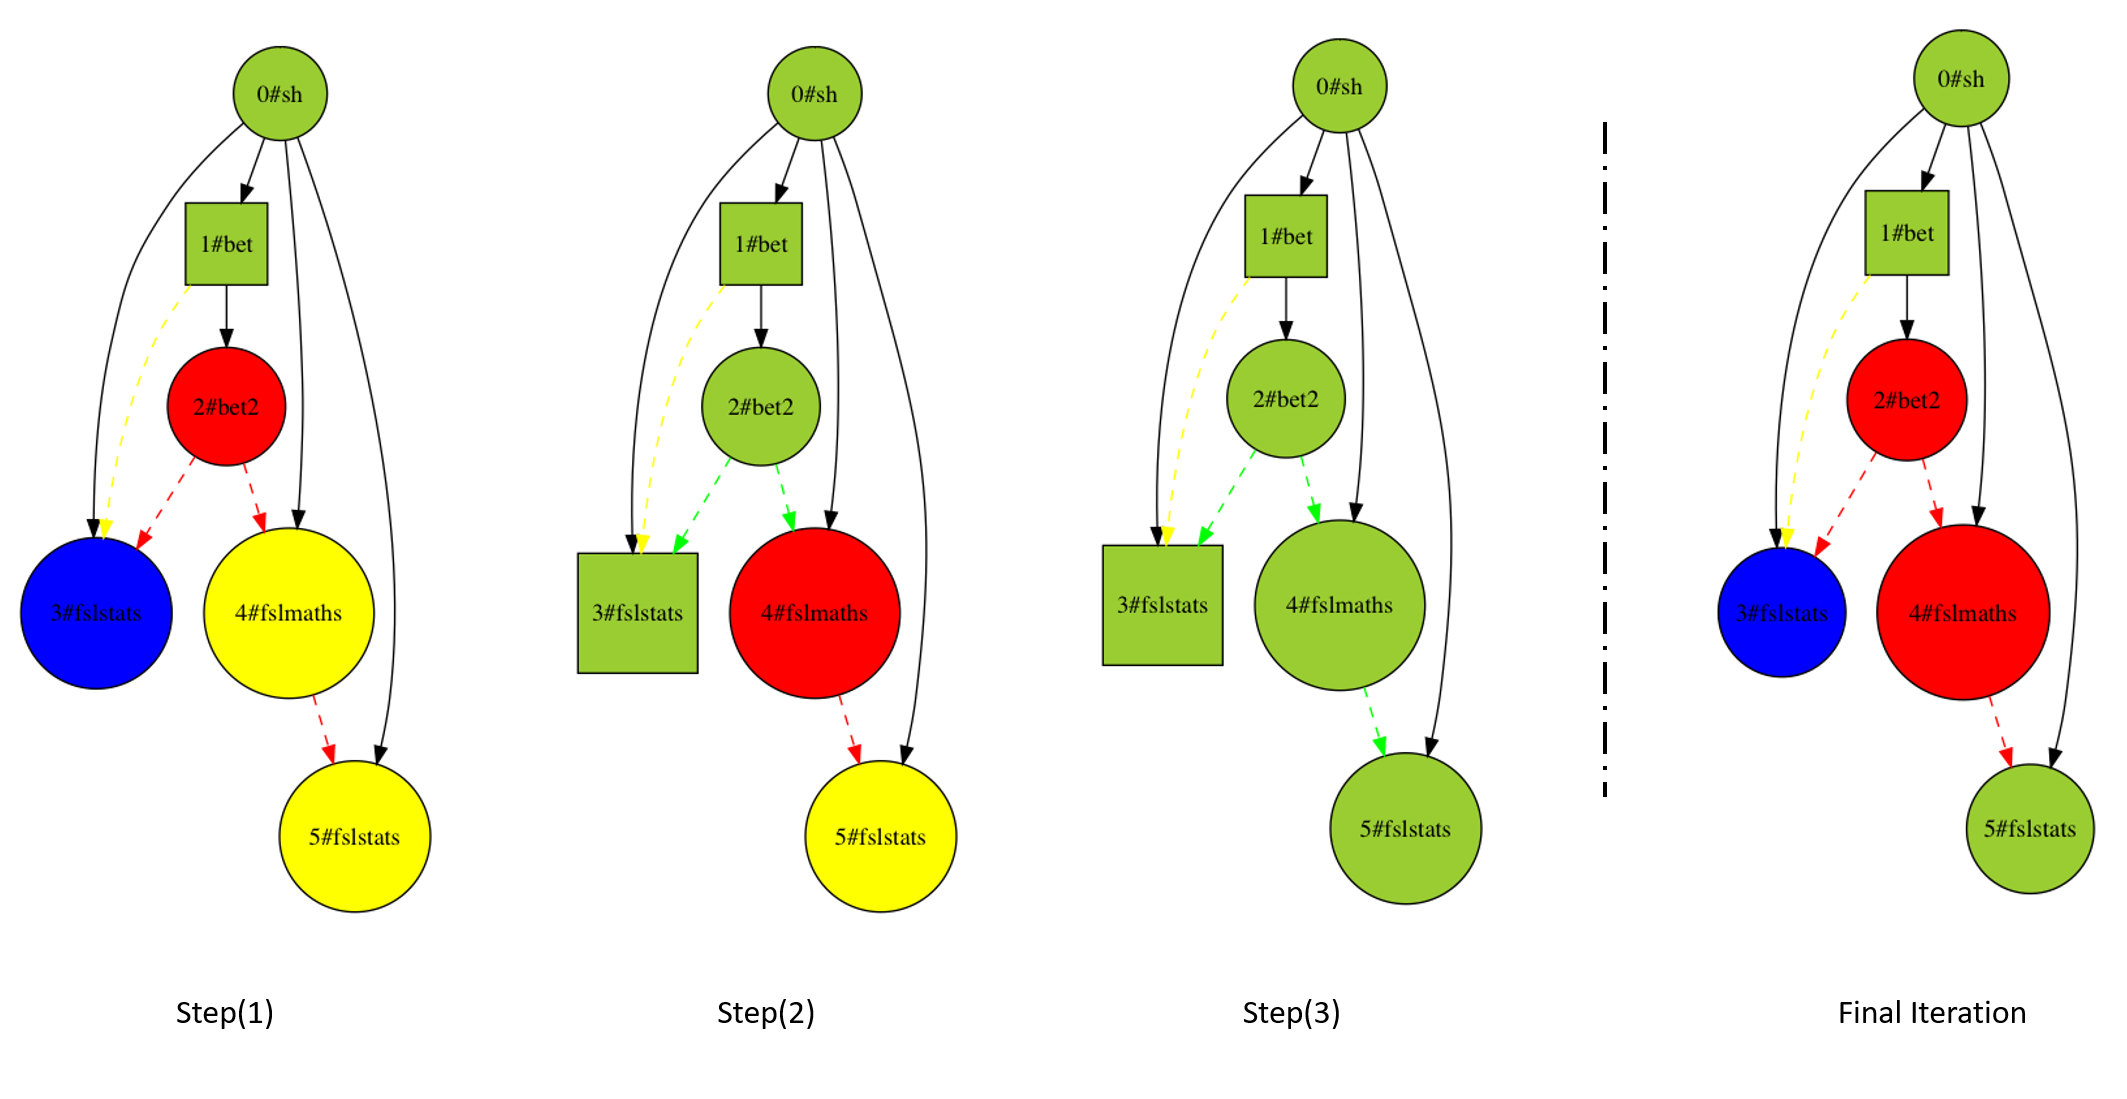
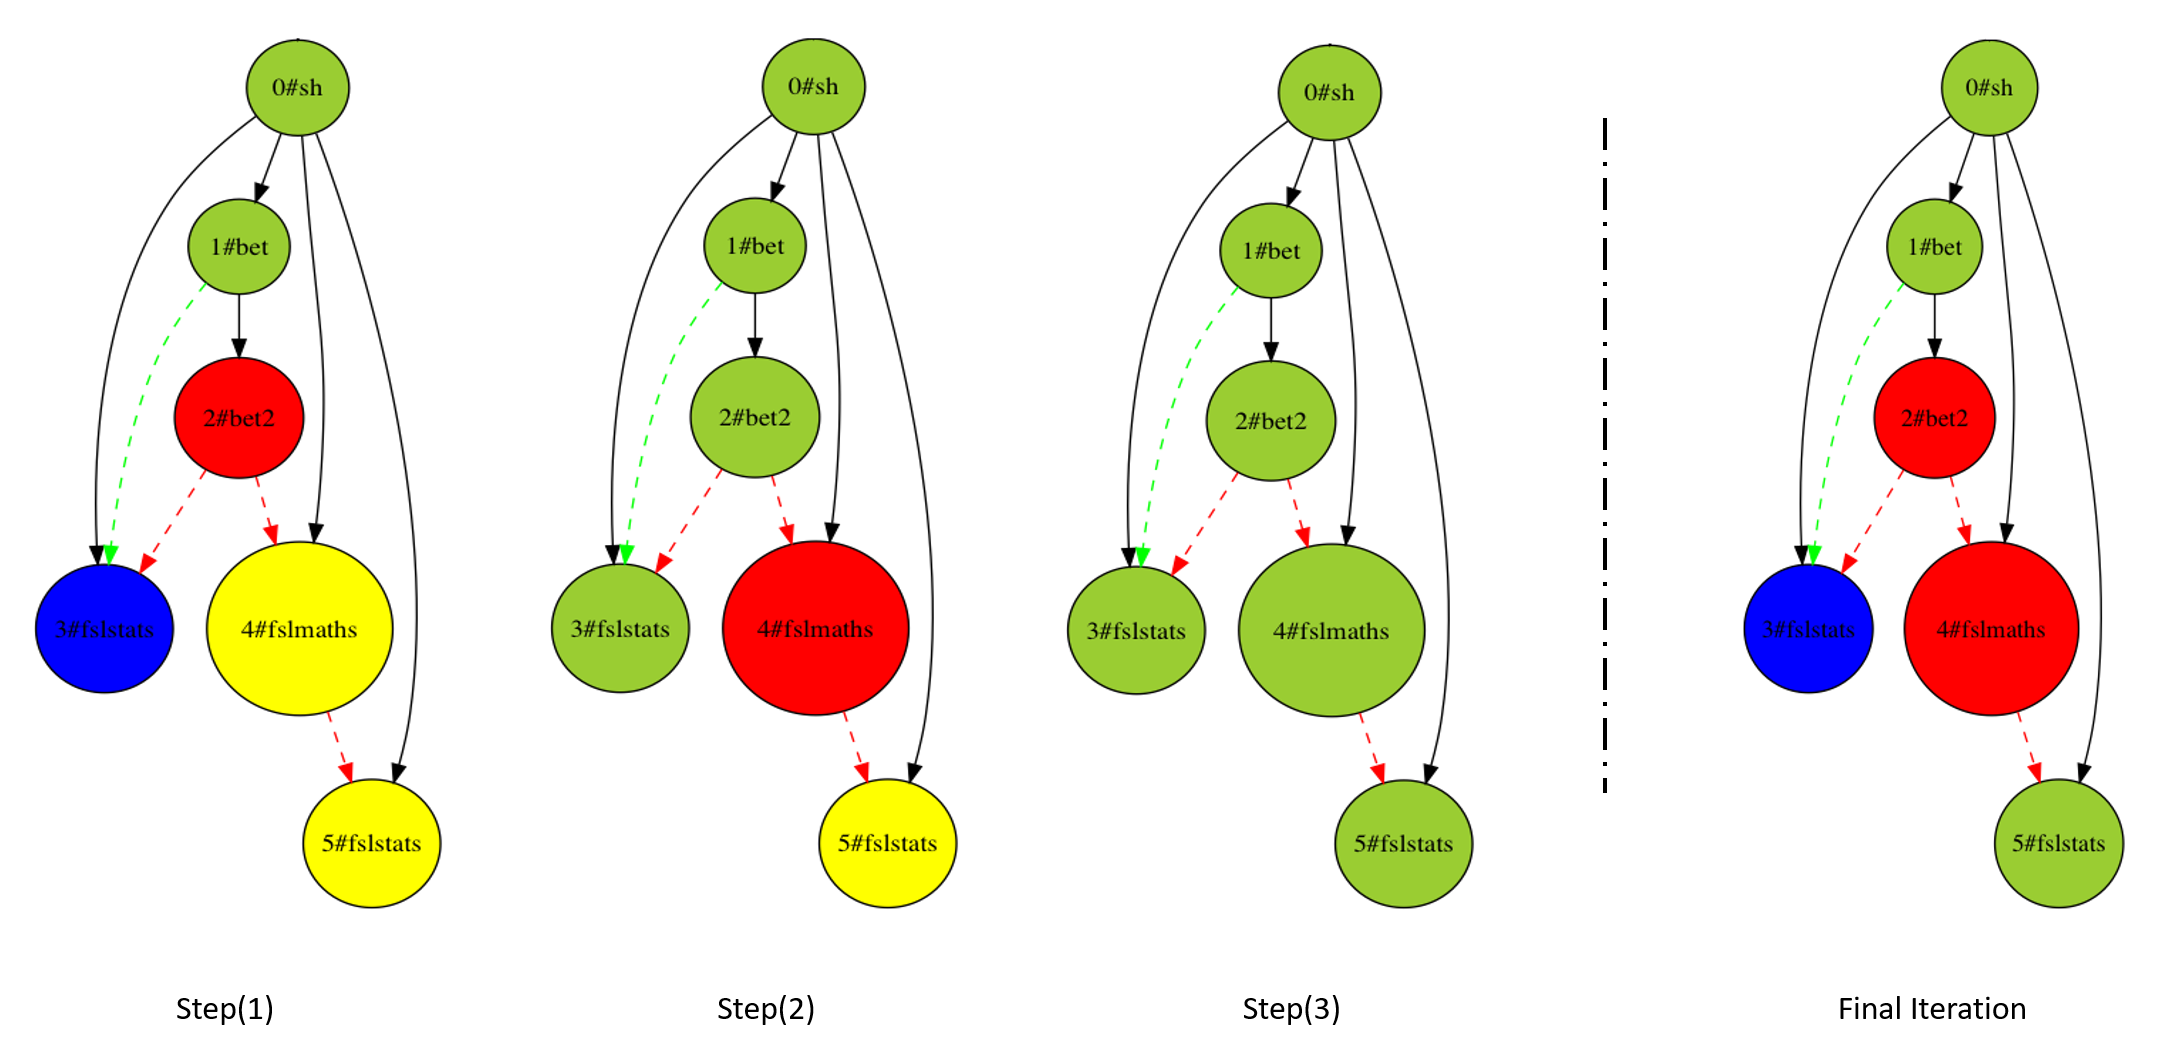
add new images

diff --git a/paper.tex b/paper.tex
@@ -5,7 +5,6 @@
 \usepackage{xcolor}
 \usepackage{graphicx}
 \usepackage{algorithm}
-\usepackage{algpseudocode}
 \usepackage{caption}
 \usepackage{listings}
 \usepackage{verbatim}
@@ -208,20 +207,8 @@ constructed at this stage.
 \end{minipage}
 \begin{minipage}[]{.3\linewidth}
 \small\captionof{algorithm}{sample script of a process graph}\label{sample_script}
-%\begin{algorithmic}[1]
-%\begin{lstlisting}[frame=single]  % Start your code-block
-%
-%#!/bin/bash
-%
-%if [ # !=1 ]
-%then
-%    echo "usage: 0 <inputimage.nii.gz>"
-%    exit 1
-%fi
-%\end{lstlisting}
-
 {\scriptsize
-\begin{verbatim}[frame=single]
+\begin{verbatim}
 #!/bin/bash
 if [ # !=1 ]
 then
@@ -232,41 +219,15 @@ input_image=$1
 bet_output="$(basename ${input_image} .nii.gz)_brain.nii.gz"
 bet_output_binarized="$(basename ${input_image} .nii.gz)_brain_bin.nii.gz"
 
-bet ${input_image} ${bet_output}
+bet ${input_image} ${bet_output} > bet_temp.out
 echo "Voxels / Volume in brain mask:"
 fslstats ${bet_output} -V
 fslmaths ${bet_output} ${bet_output_binarized}
 echo "Voxels / Volum in binarized brain mask:"
-\rm ${bet_output}
+\rm bet_temp.out
 \end{verbatim}
 }
-
-%input_image=$1
-%bet_output="$(basename ${input_image} .nii.gz)_brain.nii.gz"
-%bet_output_binarized="$(basename ${input_image} .nii.gz)_brain_bin.nii.gz"
-%
-%bet ${input_image} ${bet_output}
-%echo "Voxels / Volume in brain mask:"
-%fslstats ${bet_output} -V
-%fslmaths ${bet_output} ${bet_output_binarized}
-%echo "Voxels / Volum in binarized brain mask:"
-%\rm ${bet_output}
-
-
-%  \Procedure{Euclid}{$a,b$}\Comment{The g.c.d. of a and b}
-%    \State $r\gets a\bmod b$
-%    \While{$r\not=0$}\Comment{We have the answer if r is 0}
-%      \State $a\gets b$
-%      \State $b\gets r$
-%      \State $r\gets a\bmod b$
-%    \EndWhile\label{euclidendwhile}
-%    \State \textbf{return} $b$\Comment{The gcd is b}
-%  \EndProcedure
-
-
-%\end{algorithmic}
 \end{minipage}
-
 \captionof{figure}{Process graph constructed from an example brain extraction
     script. Every node in the graph is labeled using (1) a process id
     created by our reconstruction, (2) the name of the executable run
@@ -275,7 +236,6 @@ echo "Voxels / Volum in binarized brain mask:"
     represent the process tree (\texttt{fork()} or \texttt{clone()}
     system calls). Dashed edges represent file dependencies: temporary
     files are in yellow and result files are in green.} \label{myfig1}
-
 \medskip
 
 A different process graph may be produced for every subject in every
@@ -352,15 +312,46 @@ without any \emph{unknown} process after a finite number of iterations.
   \label{fig:iterations}
 \end{figure}
 
-Figure~\ref{fig:iterations} illustrates the modification process iteratively in three steps for the previous example.
- Processes that created errors are shown in red, processes that removed errors are in blue,
- yellow nodes are the processes which propagate errors, and other processes are in green.
- For instance, in step one after correcting bet process, fslmaths is recognized as a red process in the next step.
-In fact, the created graph in a real pipeline execution is much more complex. 
-To simplicity of intricate graph and tracing processes comprehensible, 
-the original graph compacted to several subgraphs using a compression technique. 
-The compression technique will apply, (1) build subgraphs for every interesting node (e.g. red and blue nodes with their children)
- (2) remove the interesting nodes from graph (3) finding largest connected components in the remaining nodes (iteratively).
+Figure~\ref{fig:iterations} illustrates our iterative classification 
+process for the example in Figure~\ref{fig:graph-example}. At every 
+step, processes that created errors are shown in red, processes that 
+removed errors are in blue, processes that propagated errors are in 
+yellow, and other processes (transparent processes) are in green. As in 
+Figure~\ref{fig:graph-example}, plain black edges represent the process 
+tree and dashed edges represent file dependencies: green edges 
+represent files with no errors, while red edges represent files with 
+errors. Temporary files are not represented because they have been 
+backed up as previously described.
+
+The three steps in Figure~\ref{fig:iterations} correspond to the 
+iterations of the classification algorithm At step one \texttt{2\#bet2} 
+is classified as error creator (red) as it produced files with errors 
+from files without error. \texttt{3\#fslstats} is classified as error 
+remover (blue) as it produced files without errors from files with 
+errors. \texttt{4\#fslmaths} and \texttt{5\#fslstats} are classified as 
+unknown (yellow) as they produce files with errors from files with errors.
+
+At step 2, the files produced by \texttt{2\#bet2} in the tested 
+condition are replaced with the files produced by \texttt{2\#bet2} in 
+the other condition. \texttt{3\#fslstats} is now classified as transparent, \texttt{4\#fslmaths} is now classified
+as error creator and \texttt{5\#fslstats} is still unknown.
+
+ At step 3, the files produced by \texttt{4\#fslmaths} in the tested 
+ condition are replaced with the files produced by \texttt{4\#fslmaths} 
+ in the other condition. \texttt{5\#fslstats} is now transparent.
+ 
+ As a result of those 3 steps, the final process classification is: 
+ \texttt{2\#bet2} and \texttt{4\#fslmath} are error creators (red), 
+ \texttt{3\#fslstats} is error remover (blue) and the other processes 
+ are transparent.
+
+The process graphs of real pipelines are much larger than the one in 
+Figure~\ref{fig:iterations}. To represent such large graphs, we 
+summarize them by (1) building subgraphs for every interesting node 
+(e.g. red and blue nodes with their children) (2) building connected components 
+in the absence of interesting nodes for the remaining nodes in the process graph. 
+Each node in the summarized graph represent either a shrinked interesting subgraph or 
+connected component and edges represent any connection between two shrinked nodes.
 
 \section{Results}
 
@@ -407,7 +398,7 @@ as run-1 and run-2. The files belonging to the subjects stored under the above m
 
 \subsection{Pipeline analysis}
 
-Figure \ref{fig:2} shows the annotated provenance graph of the
+Figure \ref{fig:summarized-graph} shows the annotated provenance graph of the
 PreFreeSurfer pipeline executed on CentOS6 and CentOS7.  Processes
 that created errors are shown in red, processes that removed errors
 are in blue, and other processes are in green.  Squares denote
@@ -432,10 +423,19 @@ to remove errors.
 \todo{Check if a given file is written by only one process (add a safeguard in your code).}
 
 \begin{figure}
+  \includegraphics[width=\linewidth]{images/summarized_graph}
+  \caption{An annotated summarized process graph from the PreFreesurfer pipeline.
+Each node in the graph is represented in red, blue or green colors and is labeled 
+using the name of the executable run by the interesting process. The close up nodes 
+reveal each shrinked subgraph in details.}
+  \label{fig:summarized-graph}
+\end{figure}
+
+\begin{figure}
   \includegraphics[width=\linewidth]{images/graph}
-  \caption{An annotated provenance graph from the PreFreesurfer pipeline. Processes that created errors are in red. 
+  \caption{A complete process graph from the PreFreesurfer pipeline.
 Full-resolution image available at \url{https://drive.google.com/open?id=174yyn8SuVOUcK5aRVw0bagjDanLD0FLt}.}
-  \label{fig:2}
+  \label{fig:complete-graph}
 \end{figure}
 
 \section{Discussion}
